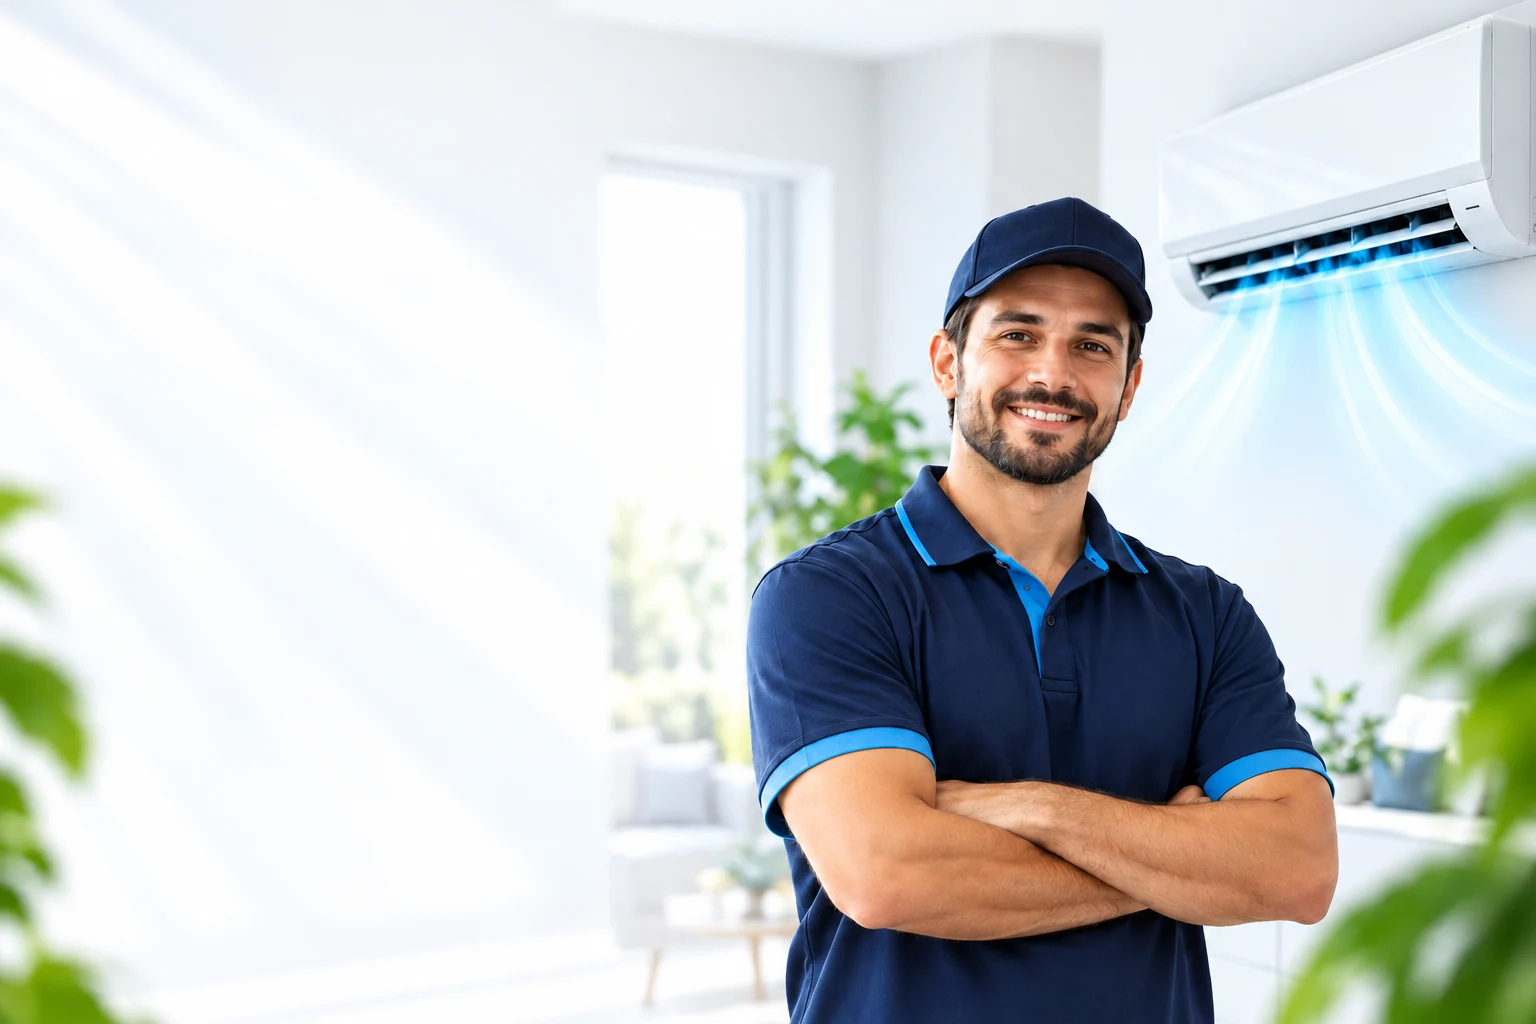
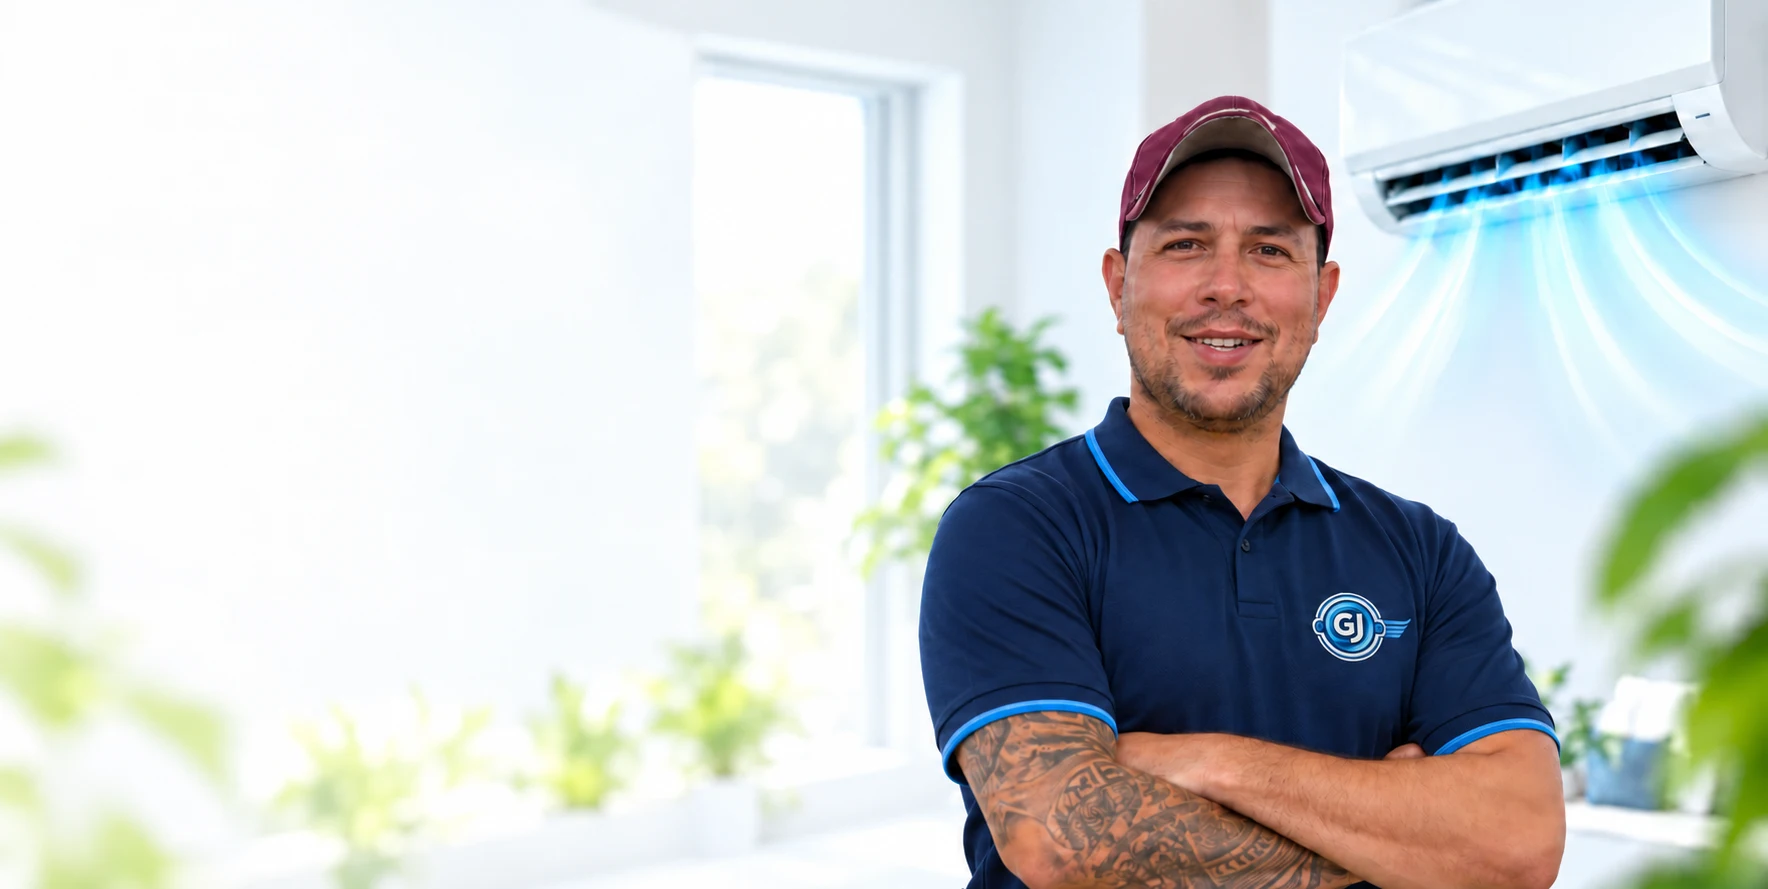
Ajusta contato à nova referência com painel ampliado

diff --git a/styles.css b/styles.css
@@ -37,3 +37,8 @@ header{background:rgba(255,255,255,.82)}.header-inner{height:128px}.header-inner
 @media(min-width:761px) and (max-height:850px){.contact-scene{padding:25px 0}.contact-scene h2{font-size:clamp(40px,6.5svh,56px);margin-bottom:10px}.contact-lead{font-size:22px;margin-bottom:18px}.contact-panel{padding:8px 22px 18px}.contact-row{padding:14px 0;gap:18px}.contact-icon{width:53px;height:53px}.contact-icon svg{width:31px;height:31px}.contact-row small{font-size:14px;margin-bottom:5px}.contact-row strong{font-size:22px}.contact-row .contact-number{font-size:25px}.contact-row address{font-size:16px}.contact-panel .button{font-size:20px;padding:17px 22px}.contact-form-link{margin-top:5px}}
 @media(min-width:761px) and (max-width:1050px){.contact-main{width:58%}.contact-row .contact-number{font-size:23px}.contact-row address{font-size:14px}.contact-panel{padding-left:18px;padding-right:18px}.contact-scene h2{font-size:43px}.contact-lead{font-size:22px}.quote-layout{gap:35px}.quote-intro h2{font-size:38px}}
 @media(max-width:760px){.contact-scene{padding:0 0 30px;display:flex;flex-direction:column;min-height:0}.contact-photo{position:relative;height:300px;width:100%;overflow:hidden}.contact-photo img{position:absolute;right:0;width:150%;max-width:none;object-position:right center}.contact-photo:after{background:linear-gradient(0deg,#f7fafc,transparent 35%)}.contact-main{width:100%;max-width:none}.contact-scene-inner{margin-top:-10px}.contact-scene h2{font-size:40px;letter-spacing:-2px;white-space:normal}.contact-lead{font-size:18px;margin-bottom:22px;letter-spacing:-.3px}.contact-lead br{display:none}.contact-panel{padding:8px 17px 20px;border-radius:18px}.contact-row{padding:17px 0;gap:14px}.contact-icon{width:48px;height:48px}.contact-icon svg{width:28px;height:28px}.contact-row small{font-size:13px;margin-bottom:5px}.contact-row strong{font-size:21px}.contact-row .contact-number{font-size:22px}.contact-row address{font-size:13px;line-height:1.4}.contact-panel .button{font-size:18px;padding:17px 16px;border-radius:16px;gap:15px}.contact-form-link{font-size:11px;line-height:1.5}.quote-layout{grid-template-columns:1fr;gap:25px}.quote-intro h2{font-size:36px}.quote-intro>p:not(.eyebrow){font-size:14px}.quote-section{padding:45px 0}.quote-section .contact-form{padding:26px 22px}}
+/* Novo enquadramento de contato enviado pelo usuário. */
+@media(min-width:761px){.contact-scene-inner{width:min(1650px,calc(100% - 90px))}.contact-main{width:57%;max-width:850px}.contact-scene h2{font-size:clamp(46px,min(4.6vw,7.8svh),78px);letter-spacing:-2.8px;margin-bottom:20px}.contact-lead{font-size:clamp(23px,min(2.5vw,3.8svh),37px);line-height:1.3;margin-bottom:24px}.contact-panel{padding:13px 30px 22px;border-radius:30px;background:#fffffff0}.contact-row{padding:18px 0;gap:26px}.contact-icon{width:76px;height:76px}.contact-icon svg{width:43px;height:43px}.contact-row small{font-size:21px;margin-bottom:8px}.contact-row strong{font-size:31px}.contact-row .contact-number{font-size:clamp(29px,2.8vw,43px)}.contact-row address{font-size:clamp(16px,1.65vw,25px);line-height:1.3}.contact-panel .button{font-size:clamp(23px,2.3vw,34px);border-radius:28px;min-height:80px;padding:22px 30px;gap:50px}.contact-panel .button .arrow-icon{width:35px;height:35px}.contact-photo img{object-position:center center}.contact-photo:after{background:linear-gradient(90deg,#ffffff55,transparent 63%)}.contact-form-link{margin-top:6px}}
+@media(min-width:761px) and (max-height:850px){.contact-scene{padding:20px 0}.contact-scene h2{font-size:clamp(43px,6.5svh,60px);margin-bottom:12px}.contact-lead{font-size:clamp(22px,3.5svh,28px);margin-bottom:18px}.contact-panel{padding:7px 24px 17px;border-radius:24px}.contact-row{padding:12px 0;gap:22px}.contact-icon{width:58px;height:58px}.contact-icon svg{width:33px;height:33px}.contact-row small{font-size:16px;margin-bottom:6px}.contact-row strong{font-size:26px}.contact-row .contact-number{font-size:30px}.contact-row address{font-size:17px}.contact-panel .button{font-size:25px;min-height:65px;padding:16px 24px;border-radius:22px}}
+@media(min-width:761px) and (max-width:1050px){.contact-scene-inner{width:calc(100% - 45px)}.contact-main{width:59%}.contact-panel{padding-left:18px;padding-right:18px}.contact-scene h2{font-size:43px}.contact-row{gap:14px}.contact-row .contact-number{font-size:26px}.contact-row address{font-size:15px}.contact-row strong{font-size:24px}.contact-row small{font-size:15px}.contact-panel .button{font-size:21px;gap:18px}.contact-lead{font-size:23px}}
+@media(max-width:760px){.contact-photo img{width:170%;object-position:right center}.contact-panel{border-radius:22px}.contact-panel .button{font-weight:700}}
